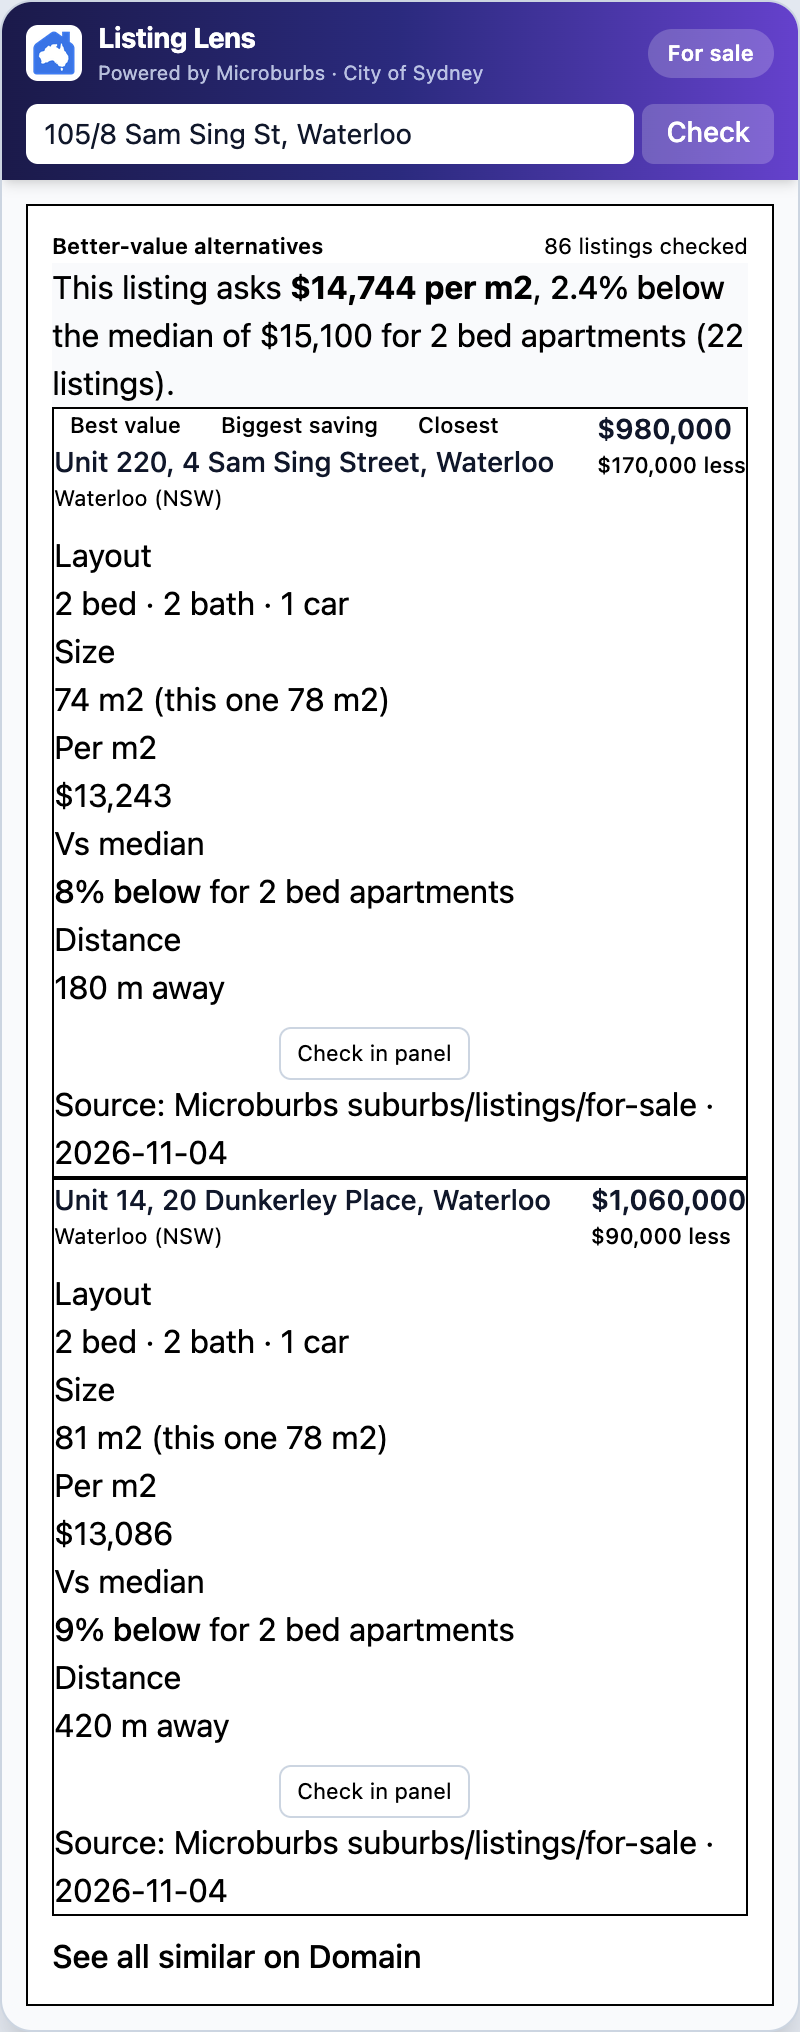
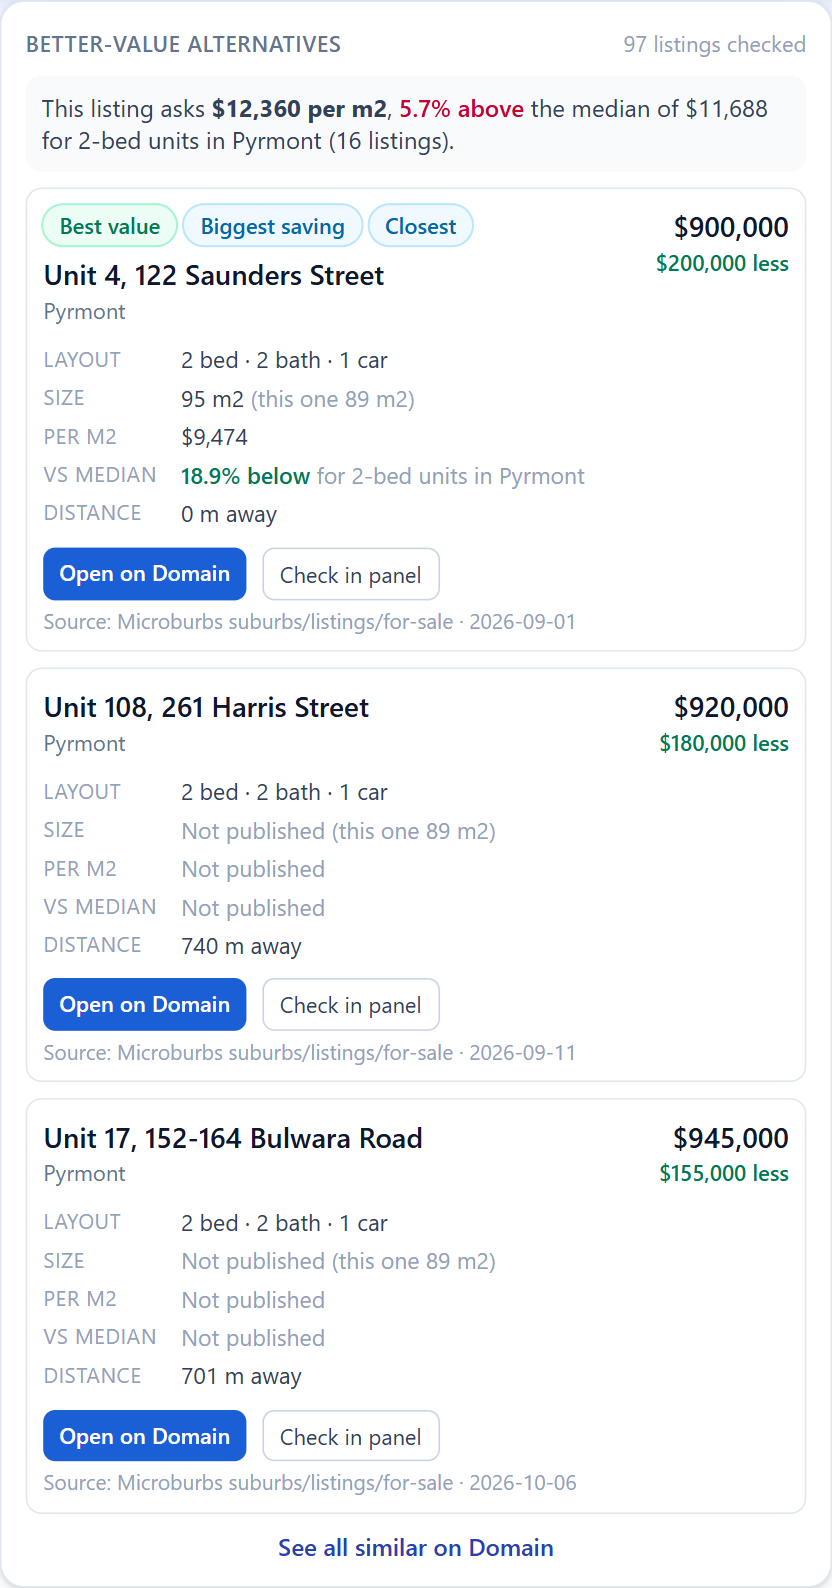
Replace README screenshots with captures of the live panel
Real data for Unit 109, 122 Saunders Street, Pyrmont, from v1.1.4 against
the production backend.

diff --git a/README.md b/README.md
@@ -6,11 +6,11 @@ Built for the Microburbs hackathon, 7 November 2026 (Task 3, Chrome extension; T
 
 ## The panel
 
-These are the real side-panel components, filled with a sample listing at Unit 105, 8 Sam Sing Street, Waterloo, so the layout is visible here. On a live listing the numbers come from the Microburbs API, and each one keeps its source and date.
+Screenshots of the live panel (v1.1.4) for a real for-sale listing, Unit 109, 122 Saunders Street, Pyrmont, taken on 7 November 2026. Every number comes from the Microburbs API with its source and date.
 
-The address is matched to one G-NAF unit. The price check compares the asking price with the Microburbs valuation, then adds a street check and a rent yield.
+The address is matched to one G-NAF unit. The overview shows the Microburbs estimate and its confidence, the asking price against it, your match, four key tiles and the local context.
 
-![Price check for a matched unit](assets/price-check.png)
+![Overview for a matched unit](assets/price-check.png)
 
 Cheaper like-for-like listings nearby, with the saving, size and price per square metre.
 
